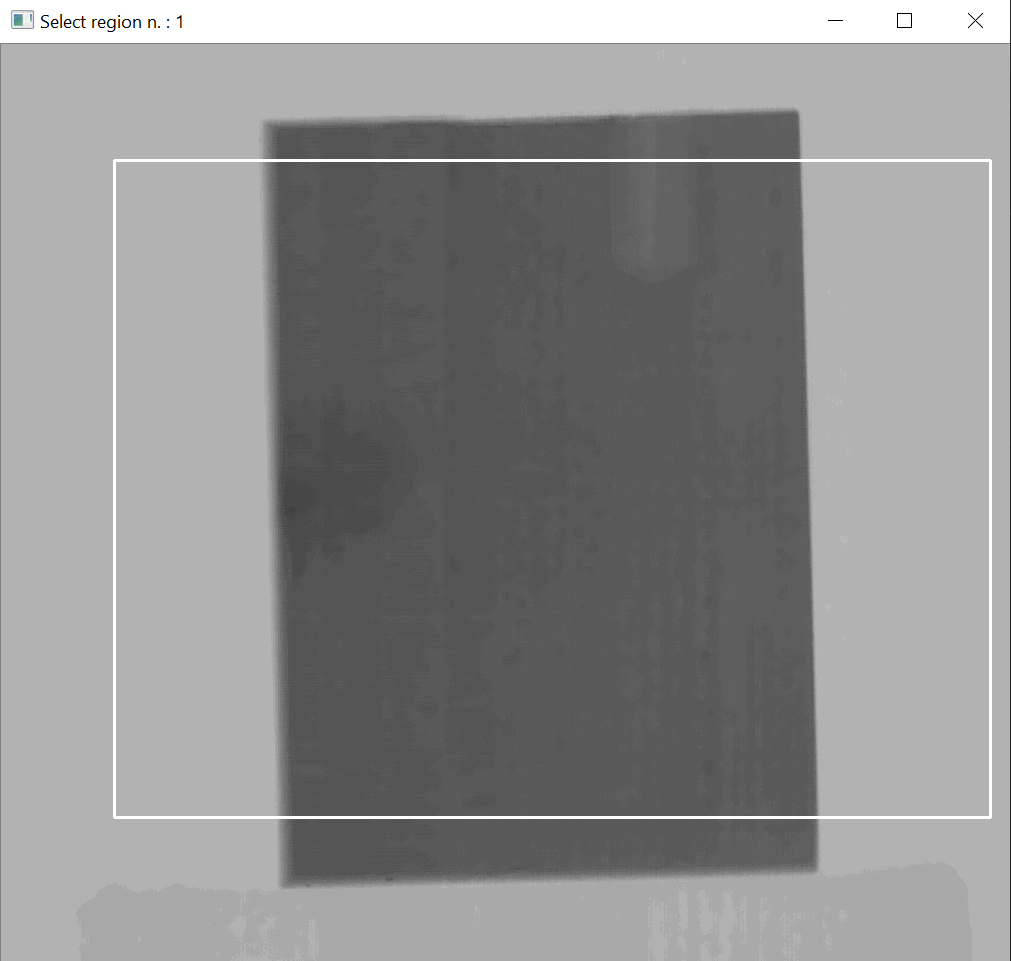
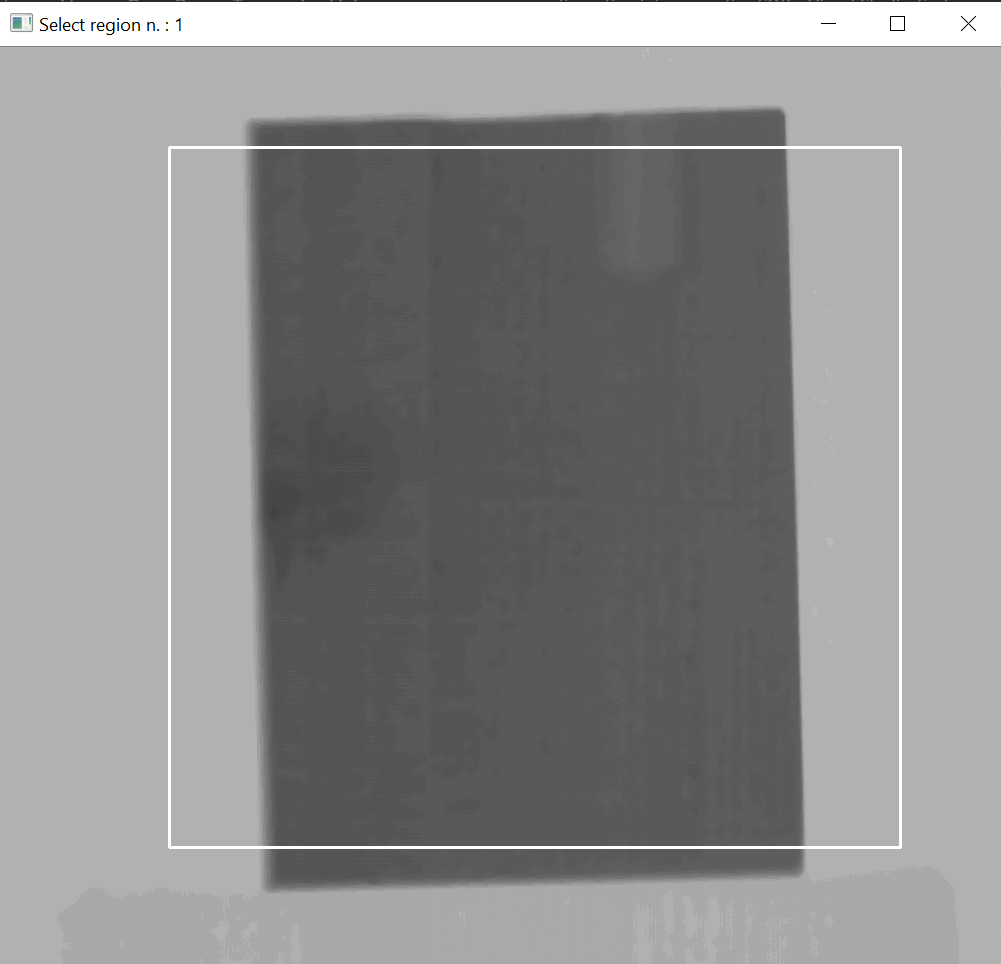
documentation updated

diff --git a/README.md b/README.md
@@ -184,7 +184,7 @@ ROI coordinates (if images are cropped) and rotation axis position will be saved
 
 ## **Example**
 The folder [example_dataset](https://github.com/NaomiOrlandi/axis_of_rotation/tree/main/example_dataset) contains an example of data structure, usable with the application.   
-In [projections](https://github.com/NaomiOrlandi/axis_of_rotation/tree/main/example_dataset/projections) 180 x-ray tomoographic projection images of a wooden cube with two holes are stored. The last angle of acquisition is 360°.  
+In [projections](https://github.com/NaomiOrlandi/axis_of_rotation/tree/main/example_dataset/projections) 181 x-ray tomoographic projection images of a wooden cube with two holes are stored. The last angle of acquisition is 360°. The tilt angle of the sample rotation axis is known and it is 2°. 
 In [flat](https://github.com/NaomiOrlandi/axis_of_rotation/tree/main/example_dataset/flat) and [dark](https://github.com/NaomiOrlandi/axis_of_rotation/tree/main/example_dataset/dark) are contained rispectively the flat and dark images of the same acquisition.
 
 The user has to insert the correct filepaths for the initial images and the corrected ones in the configuration file *configuration.ini*, the variable *angle* has to be 360 and *radius_neighborhood* can be any desired integer for the outliers filtering (in this example it is 5).
@@ -253,12 +253,12 @@ The passages will be the following:
 
    The created file *data.txt*, whose location is written in the configuration file, contains the coordinates of the cropping ROI, the offset and the tilt angle of the sample rotation axis:
    ```txt
-   rowmin 23 
-   rowmax 959 
-   colmin 37 
-   colmax 1066
-   shift 24 
-   tilt angle -2.0152243507642233
+   rowmin 28 
+   rowmax 958 
+   colmin 55 
+   colmax 1072
+   shift 36 
+   tilt angle -2.0187374650361463
    ```
    Point (0,0) is at the top left of the image.
 
